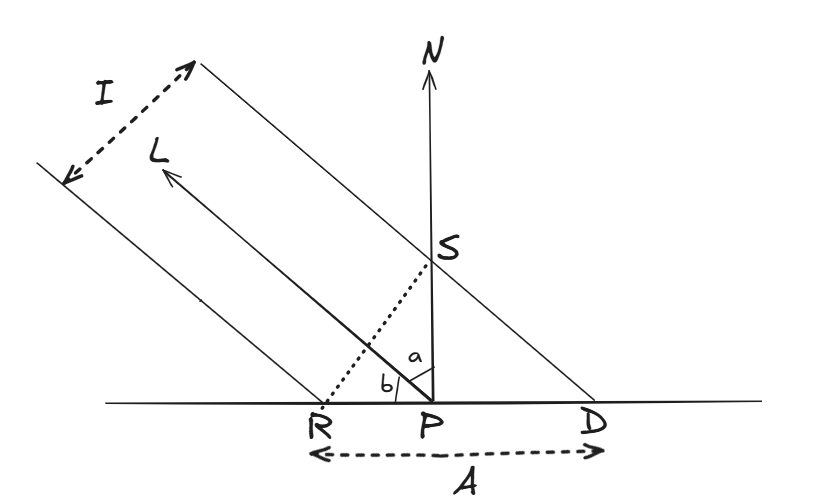
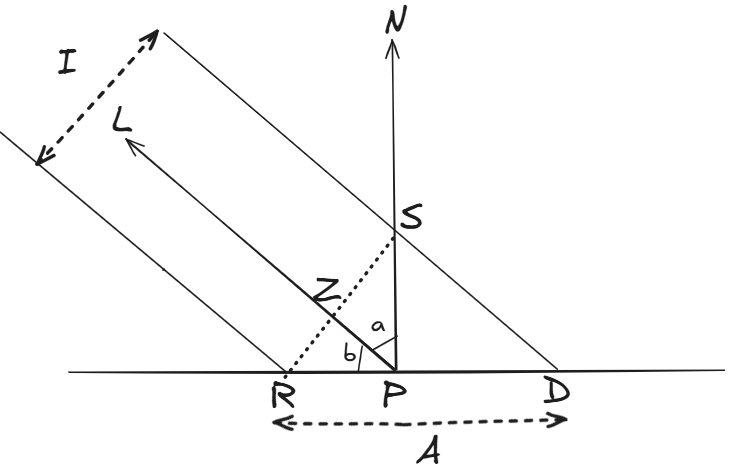
updated readme for diffuse light calculation

diff --git a/README.md b/README.md
@@ -54,10 +54,16 @@ To compute how a matte surface reflects light:
 - **N**: Surface normal at the point
 - **a**: Angle between L and N
 
-**Reflected Intensity = Light Intensity × cos(α)**
+**Reflected Intensity = Light Intensity x (I/A) = Light Intensity × cos(a)**
 
-- When a → 0 degrees, cos(a) → 1 (maximum reflection)
-- When a → 90 degrees, cos(a) → 0 (no reflection)
+- When a approaches 0 degrees, the ratio I/A approaches 1 (maximum reflection)
+- When a approaches 90 degrees, A approaches infinity, the ratio I/A approaches 0 (no reflection)
+
+To compute how I/A is same as cos(a) from the diagram:
+
+- angle SPR = a + b = 90 degrees
+- angle SRP = 90 degrees - b = a
+- cosine(a) = RZ/RP = (I/2) / (A/2) = I/A
 
 This models how light spreads over a larger area at shallow angles, thus reducing its intensity.
 
